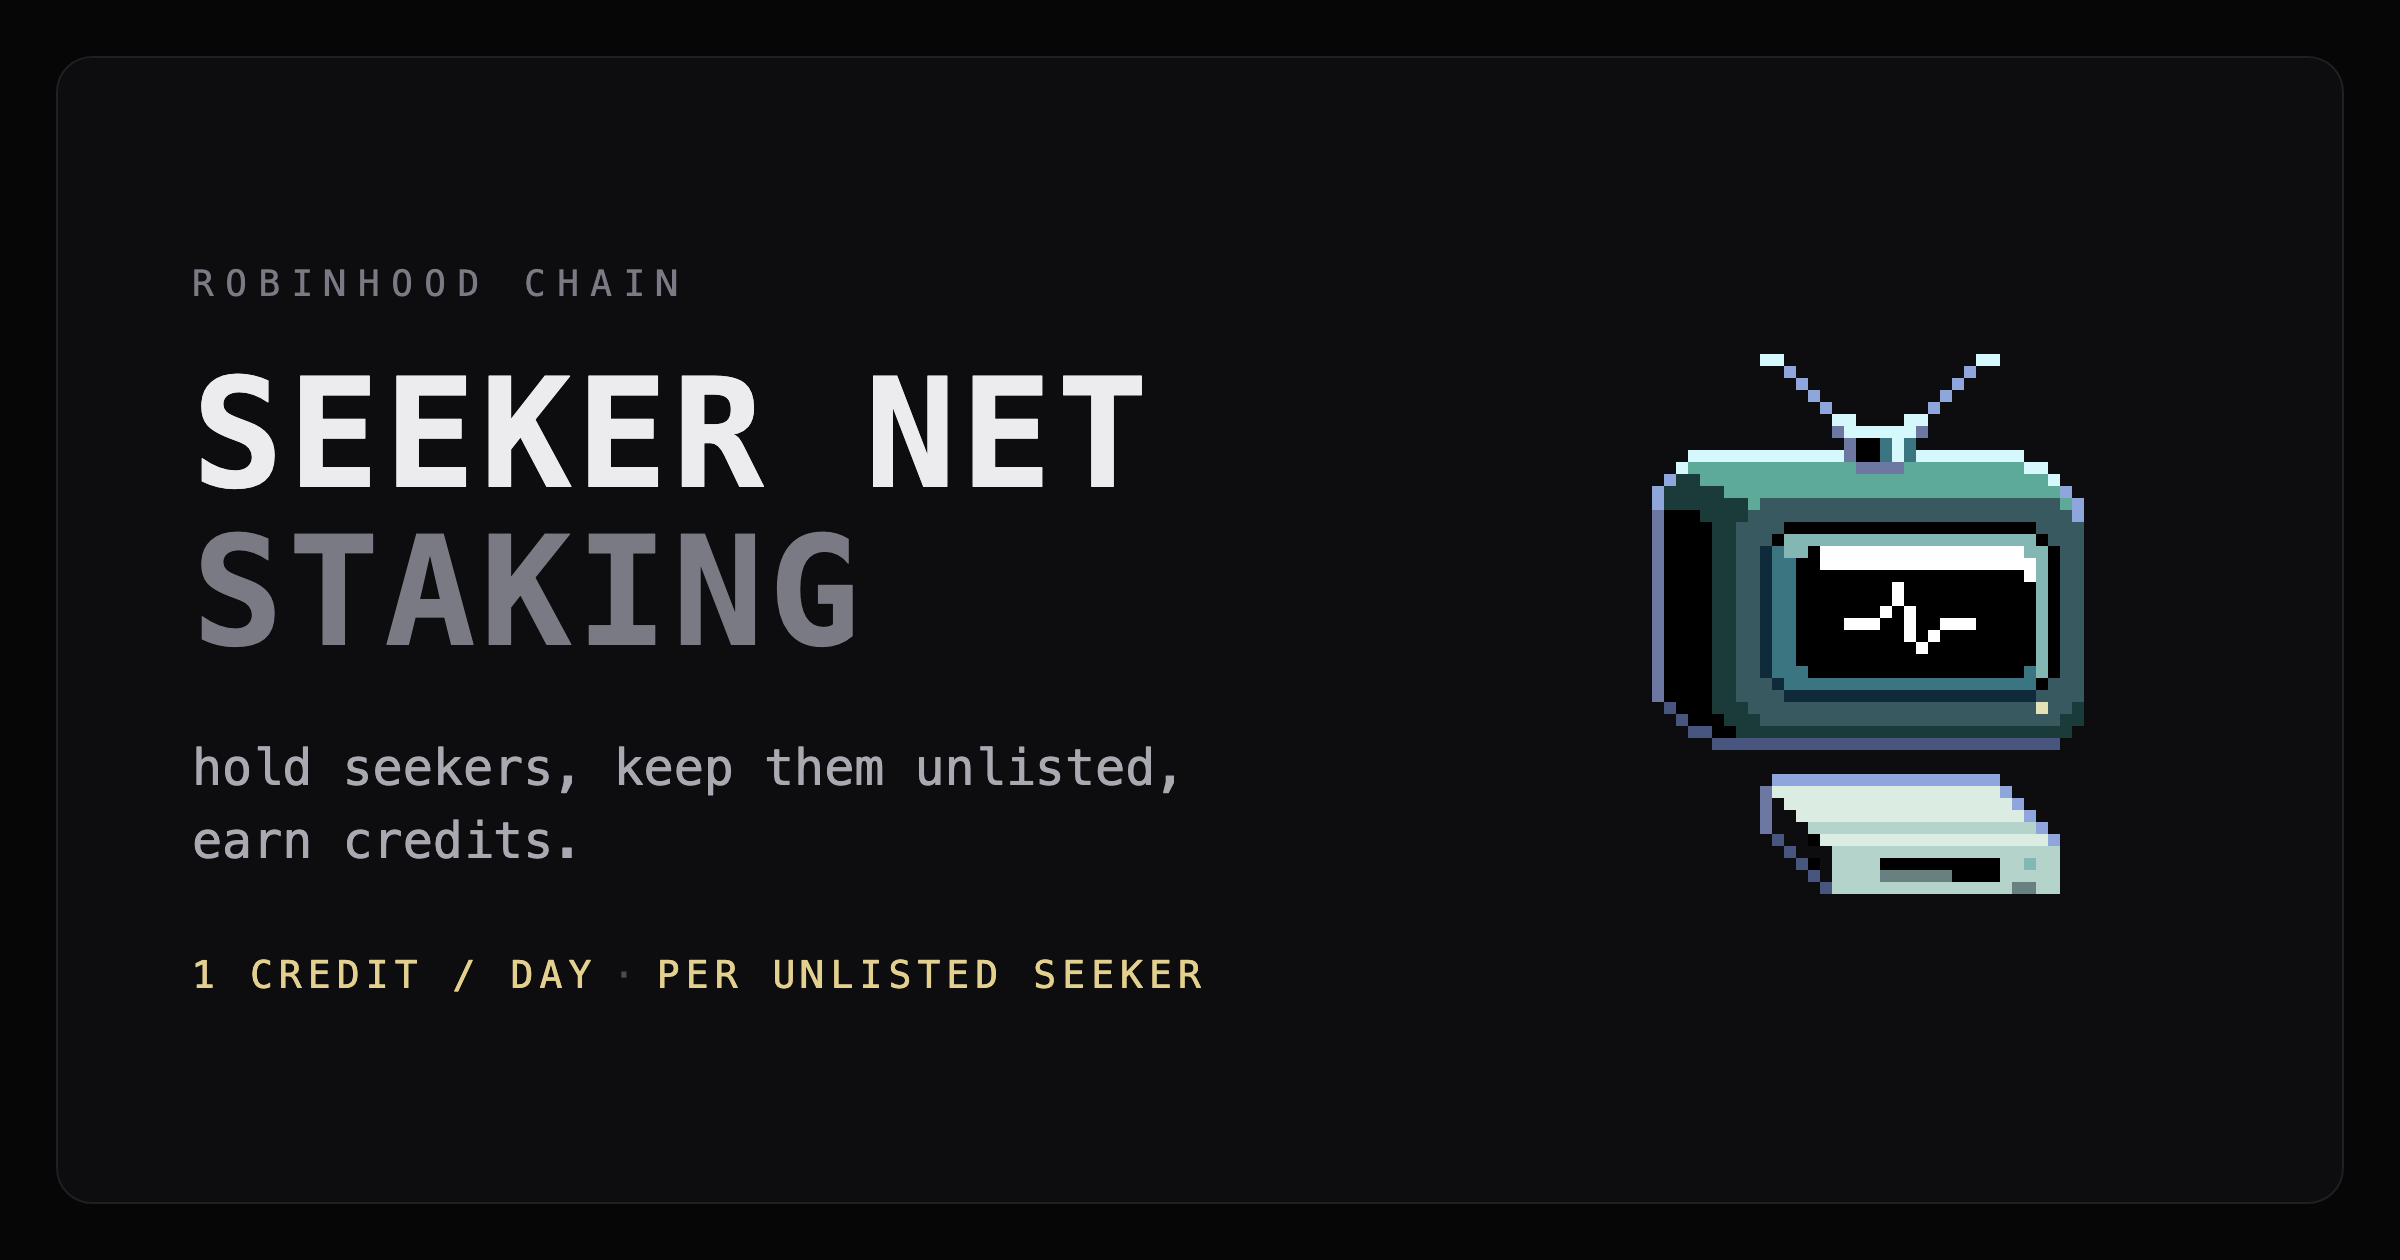
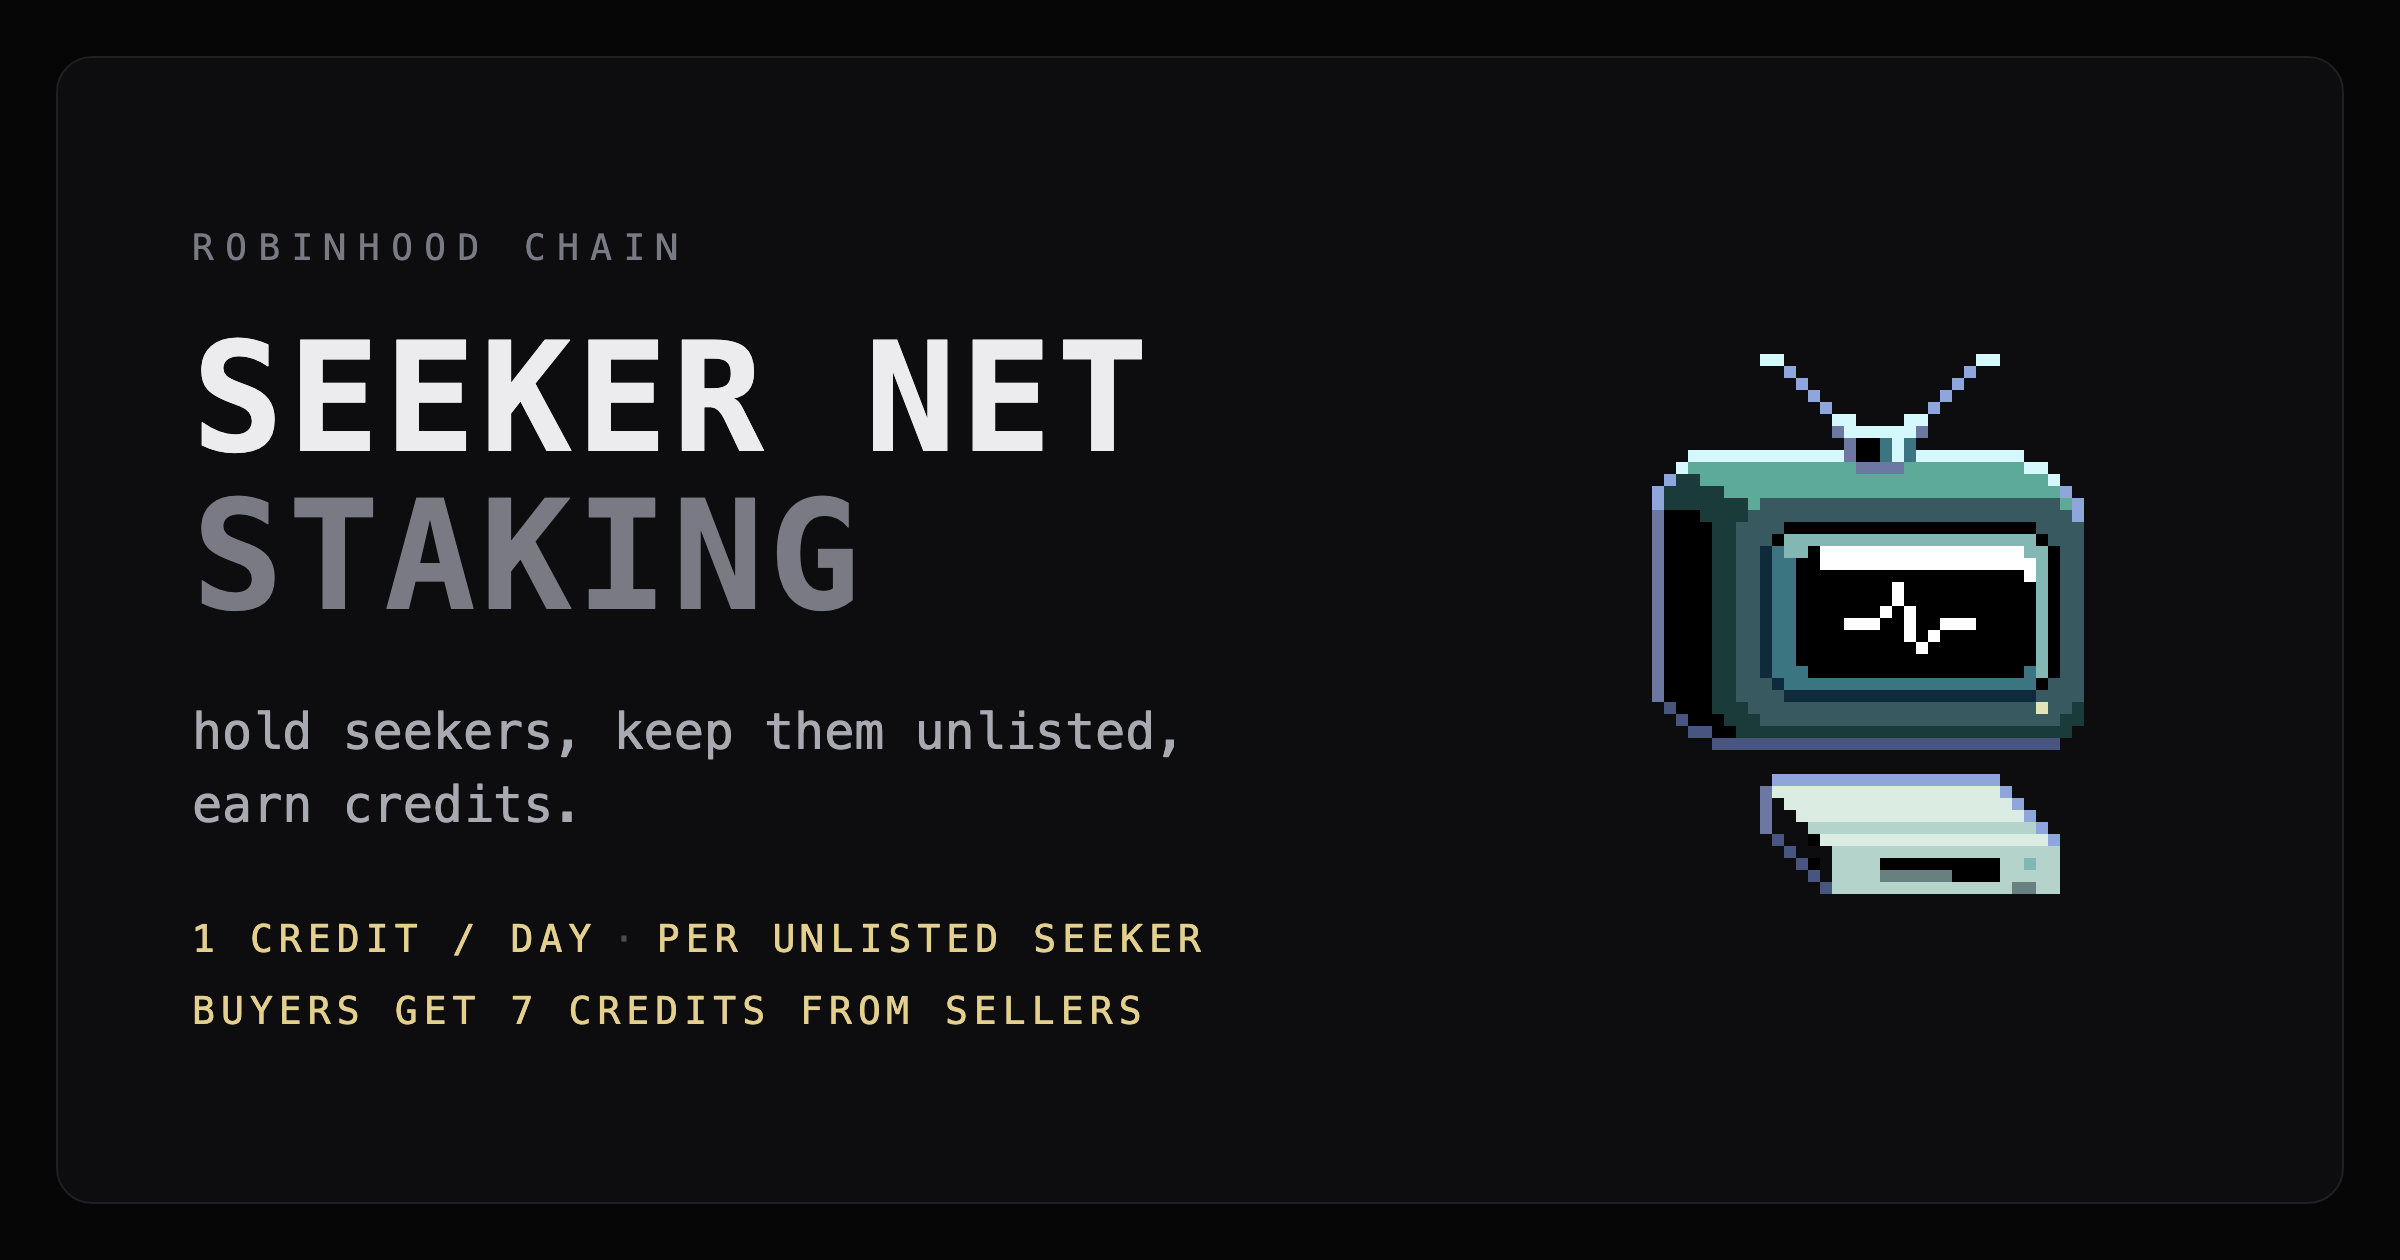
Share card: buyers get 7 credits from sellers

Changed region(s): [[0.0625, 0.1857, 0.5, 0.5262], [0.0625, 0.5571, 0.5, 0.681], [0.0625, 0.7119, 0.5, 0.8357]]

diff --git a/index.html b/index.html
@@ -11,16 +11,16 @@
 <meta property="og:type" content="website">
 <meta property="og:site_name" content="SEEKER NET">
 <meta property="og:title" content="SEEKER NET staking">
-<meta property="og:description" content="Hold seekers, keep them unlisted, earn credits. 1 credit a day for every unlisted seeker.">
+<meta property="og:description" content="Hold seekers, keep them unlisted, earn credits. 1 credit a day for every unlisted seeker; buyers get 7 credits from sellers.">
 <meta property="og:url" content="https://theseekergame.github.io/seeker-net-staking/">
-<meta property="og:image" content="https://theseekergame.github.io/seeker-net-staking/og.png">
+<meta property="og:image" content="https://theseekergame.github.io/seeker-net-staking/og.png?v=2">
 <meta property="og:image:width" content="2400">
 <meta property="og:image:height" content="1260">
-<meta property="og:image:alt" content="SEEKER NET staking: hold seekers, keep them unlisted, earn credits. 1 credit per day per unlisted seeker.">
+<meta property="og:image:alt" content="SEEKER NET staking: hold seekers, keep them unlisted, earn credits. 1 credit per day per unlisted seeker. Buyers get 7 credits from sellers.">
 <meta name="twitter:card" content="summary_large_image">
 <meta name="twitter:title" content="SEEKER NET staking">
-<meta name="twitter:description" content="Hold seekers, keep them unlisted, earn credits. 1 credit a day for every unlisted seeker.">
-<meta name="twitter:image" content="https://theseekergame.github.io/seeker-net-staking/og.png">
+<meta name="twitter:description" content="Hold seekers, keep them unlisted, earn credits. 1 credit a day for every unlisted seeker; buyers get 7 credits from sellers.">
+<meta name="twitter:image" content="https://theseekergame.github.io/seeker-net-staking/og.png?v=2">
 <style>
   /* The first layout, in The Seeker's dark, quiet colors: black ground, hairline
      panels, white for what matters, gold kept for the balance. */
